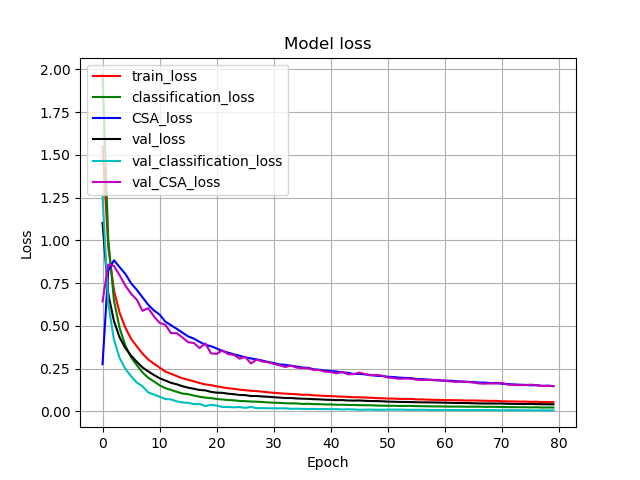
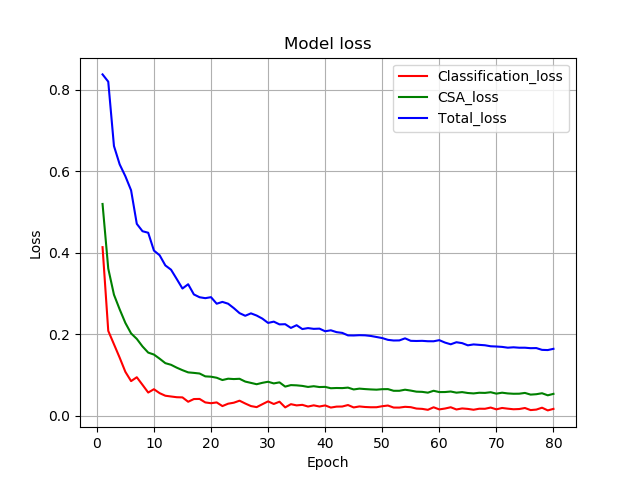
Revised USPS data bugs.

diff --git a/train.py b/train.py
@@ -9,8 +9,10 @@ import shutil
 import numpy as np
 
 from models import tiny_base_model, classifier
-from data import sample_source_data, sample_target_data, create_pairs
-from train_utils import plot_acc, plot_loss
+from data import sample_source_data, sample_target_data, create_pairs, load_pairs
+from train_utils import plot_loss, plot_acc, printn
+
+from keras.layers import Dense, Activation, Dropout
 
 def eucl_dist(vects):
     eps = 1e-08
@@ -31,6 +33,7 @@ def train_model(alpha=0.25, batch_size=32, epochs=200):
     X_s, y_s, _, _ = sample_source_data()
     X_t, y_t, X_test, y_test = sample_target_data()
     X1, X2, y1, y2, yc = create_pairs(X_s, y_s, X_t, y_t)
+    #X1, X2, y1, y2, yc, X_test, y_test = load_pairs()
 
     base_model = tiny_base_model()
     input_s = Input(shape=(X_s.shape[1], X_s.shape[2], X_s.shape[3]))
@@ -44,7 +47,7 @@ def train_model(alpha=0.25, batch_size=32, epochs=200):
 
     model = Model(inputs=[input_s, input_t], outputs=[output, dist])
     model.compile(loss={'classification': 'categorical_crossentropy', 'CSA': contrastive_loss},
-                  optimizer='adam', loss_weights={'classification': 1 - alpha, 'CSA': alpha})
+                  optimizer='adadelta', loss_weights={'classification': 1 - alpha, 'CSA': alpha})
 
     print('Model Compiled.')
     model.summary()
@@ -67,14 +70,42 @@ def train_model(alpha=0.25, batch_size=32, epochs=200):
                     embeddings_metadata=None)
 
     print('Start training model.')
-    history = model.fit(x=[X1, X2], y=[y1, yc], batch_size=batch_size, epochs=epochs, callbacks=[cb], validation_split=0.2)
-    plot_loss(history)
+    #history = model.fit(x=[X1, X2], y=[y1, yc], batch_size=batch_size, epochs=epochs, callbacks=[cb], validation_split=0.2)
+    #plot_loss(history)
+
+    best_acc = 0
+    acc_his = [0]
+    total_loss_his = []
+    classification_loss_his = []
+    CSA_loss_his = []
+    for e in range(epochs):
+        if e % 10 == 0:
+            printn(str(e) + '->')
+        for i in range(int(len(y2) / batch_size)):
+            loss = model.train_on_batch([X1[i * batch_size:(i + 1) * batch_size, :, :, :], X2[i * batch_size:(i + 1) * batch_size, :, :, :]],
+                                        [y1[i * batch_size:(i + 1) * batch_size, :], yc[i * batch_size:(i + 1) * batch_size, ]])
+            loss = model.train_on_batch([X2[i * batch_size:(i + 1) * batch_size, :, :, :], X1[i * batch_size:(i + 1) * batch_size, :, :, :]],
+                                        [y2[i * batch_size:(i + 1) * batch_size, :], yc[i * batch_size:(i + 1) * batch_size, ]])
+
+
+        out = model.predict([X_test, X_test])
+        acc_v = np.argmax(out[0], axis=1) - np.argmax(y_test, axis=1)
+        acc = (len(acc_v) - np.count_nonzero(acc_v) + .0000001) / len(acc_v)
+
+        if best_acc < acc:
+            best_acc = acc
+
+        acc_his.append(acc)
+        total_loss_his.append(loss[2])
+        classification_loss_his.append(loss[1])
+        CSA_loss_his.append(loss[0])
+    """
     if not os.path.exists('./model/'):
         os.mkdir('./model/')
     model.save('./model/CCSA.h5')
+    """
 
-    out = model.predict([X_test, X_test])
-    acc_v = np.argmax(out[0], axis=1) - np.argmax(y_test, axis=1)
-    acc = (len(acc_v) - np.count_nonzero(acc_v) + .0000001) / len(acc_v)
+    plot_loss(total_loss_his, classification_loss_his, CSA_loss_his)
+    plot_acc(acc_his)
 
-    return acc
+    return best_acc

diff --git a/data.py b/data.py
@@ -3,6 +3,7 @@ import h5py
 import cv2
 import random
 from keras.utils import np_utils
+import matplotlib.pyplot as plt
 
 def load_mnist(path='/mnt/data/Dataset/MNIST/mnist.npz'):
     f = np.load(path)
@@ -45,8 +46,8 @@ def preprocess_usps():
     x_test = x_test.reshape(x_test.shape[0], 16, 16, 1)
     x_train = x_train.astype('float32')
     x_test = x_test.astype('float32')
-    x_train /= 255
-    x_test /= 255
+    #x_train /= 255
+    #x_test /= 255
 
     # convert class vectors to binary class matrices
     #y_train = np_utils.to_categorical(y_train, 10)
@@ -125,6 +126,36 @@ def create_pairs(X_s, y_s, X_t, y_t):
 
     return X1, X2, y1, y2, yc
 
+def load_pairs(UM='MNIST_to_USPS', cc=0, SpC=1):
+    X1 = np.load('./data/' + UM + '_X1_count_' + str(cc) + '_SpC_' + str(SpC) + '.npy')
+    X2 = np.load('./data/' + UM + '_X2_count_' + str(cc) + '_SpC_' + str(SpC) + '.npy')
+
+    X1 = X1.reshape(X1.shape[0], 16, 16, 1)
+    X2 = X2.reshape(X2.shape[0], 16, 16, 1)
+
+    y1 = np.load('./data/' + UM + '_y1_count_' + str(cc) + '_SpC_' + str(SpC) + '.npy')
+    y2 = np.load('./data/' + UM + '_y2_count_' + str(cc) + '_SpC_' + str(SpC) + '.npy')
+    yc = np.load('./data/' + UM + '_yc_count_' + str(cc) + '_SpC_' + str(SpC) + '.npy')
+
+    y1 = np_utils.to_categorical(y1, 10)
+    y2 = np_utils.to_categorical(y2, 10)
+
+    X_test = np.load('./data/' + UM + '_X_test_target_repetition_' + str(cc) + '_sample_per_class_' + str(SpC)+'.npy')
+    y_test = np.load('./data/' + UM + '_y_test_target_repetition_' + str(cc) + '_sample_per_class_' + str(SpC)+'.npy')
+    X_test = X_test.reshape(X_test.shape[0], 16, 16, 1)
+    y_test = np_utils.to_categorical(y_test, 10)
+
+    return X1, X2, y1, y2, yc, X_test, y_test
+
+def show_samples(X_test, y_test):
+    idxs = random.sample(range(X_test.shape[0]), 10)
+    fig, ax = plt.subplots(3, 4,figsize=(12,16))
+    for i, idx in enumerate(idxs):
+        ax[i//4, i%4].set_title(np.argmax(y_test[idx]))
+        ax[i//4, i%4].imshow(X_test[idx].reshape(16, 16), cmap='gray')
+
+    plt.show()
+
 if __name__ == '__main__':
     """
     X_s, y_s, x_test, y_test = sample_source_data()
@@ -132,7 +163,7 @@ if __name__ == '__main__':
     print(x_test.shape)
     print(y_s.shape)
     print(y_test.shape)
-    """
+    
     X_s, y_s, x_test, y_test = sample_source_data()
     X_t, y_t, x_test, y_test = sample_target_data()
     X1, X2, y1, y2, yc = create_pairs(X_s, y_s, X_t, y_t)
@@ -141,3 +172,7 @@ if __name__ == '__main__':
     print(y1.shape)
     print(y1.shape)
     print(yc.shape)
+    """
+    #X1, X2, y1, y2, yc, X_test, y_test = load_pairs()
+    X_t, y_t, X_test, y_test = sample_target_data()
+    show_samples(X_test, y_test)

diff --git a/train_utils.py b/train_utils.py
@@ -1,8 +1,9 @@
 import matplotlib.pyplot as plt
+import sys
 
 def plot_acc(history):  
-    plt.plot(history.history['acc'], 'r', label='train_acc')
-    plt.plot(history.history['val_acc'], 'b', label='val_acc')
+    #plt.plot(history.history['acc'], 'r', label='train_acc')
+    plt.plot(range(len(history)), history, 'r', label='val_acc')
     plt.title('Model accuracy')
     plt.ylabel('Accuracy')
     plt.xlabel('Epoch')
@@ -12,18 +13,18 @@ def plot_acc(history):
     plt.close('all')
 
 
-def plot_loss(history):
-    plt.plot(history.history['loss'], 'r', label='train_loss')
-    plt.plot(history.history['classification_loss'], 'g', label='classification_loss')
-    plt.plot(history.history['CSA_loss'], 'b', label='CSA_loss')
-    plt.plot(history.history['val_loss'], 'k', label='val_loss')
-    plt.plot(history.history['val_classification_loss'], 'c', label='val_classification_loss')
-    plt.plot(history.history['val_CSA_loss'], 'm', label='val_CSA_loss')
-    
+def plot_loss(total_loss_his, classification_loss_his, CSA_loss_his):
+    plt.plot(range(1, len(classification_loss_his)+1), classification_loss_his, 'r', label='Classification_loss')
+    plt.plot(range(1, len(CSA_loss_his)+1), CSA_loss_his, 'g', label='CSA_loss')
+    plt.plot(range(1, len(total_loss_his)+1), total_loss_his, 'b', label='Total_loss')
     plt.title('Model loss')
     plt.ylabel('Loss')
     plt.xlabel('Epoch')
-    plt.legend(loc='upper left')
+    plt.legend(loc='upper right')
     plt.grid()
     plt.savefig('images/loss.png')
     plt.close('all')
+
+def printn(string):
+    sys.stdout.write(string)
+    sys.stdout.flush()

diff --git a/models.py b/models.py
@@ -1,6 +1,9 @@
 from keras.models import Model
 from keras.layers import Input, Conv2D, MaxPooling2D, Dropout, Flatten, Dense
 
+from keras.models import Sequential
+from keras.layers import Convolution2D, Activation
+
 def tiny_base_model(input_shape=(16,16,1)):
     input = Input(shape=input_shape)
     x = Conv2D(filters=32, kernel_size=(3,3), activation='relu')(input)
@@ -12,6 +15,7 @@ def tiny_base_model(input_shape=(16,16,1)):
     x = Dense(units=84, activation='relu')(x)
     
     return Model(input, x)
+
 
 def classifier(x):
     x = Dropout(0.5)(x)
